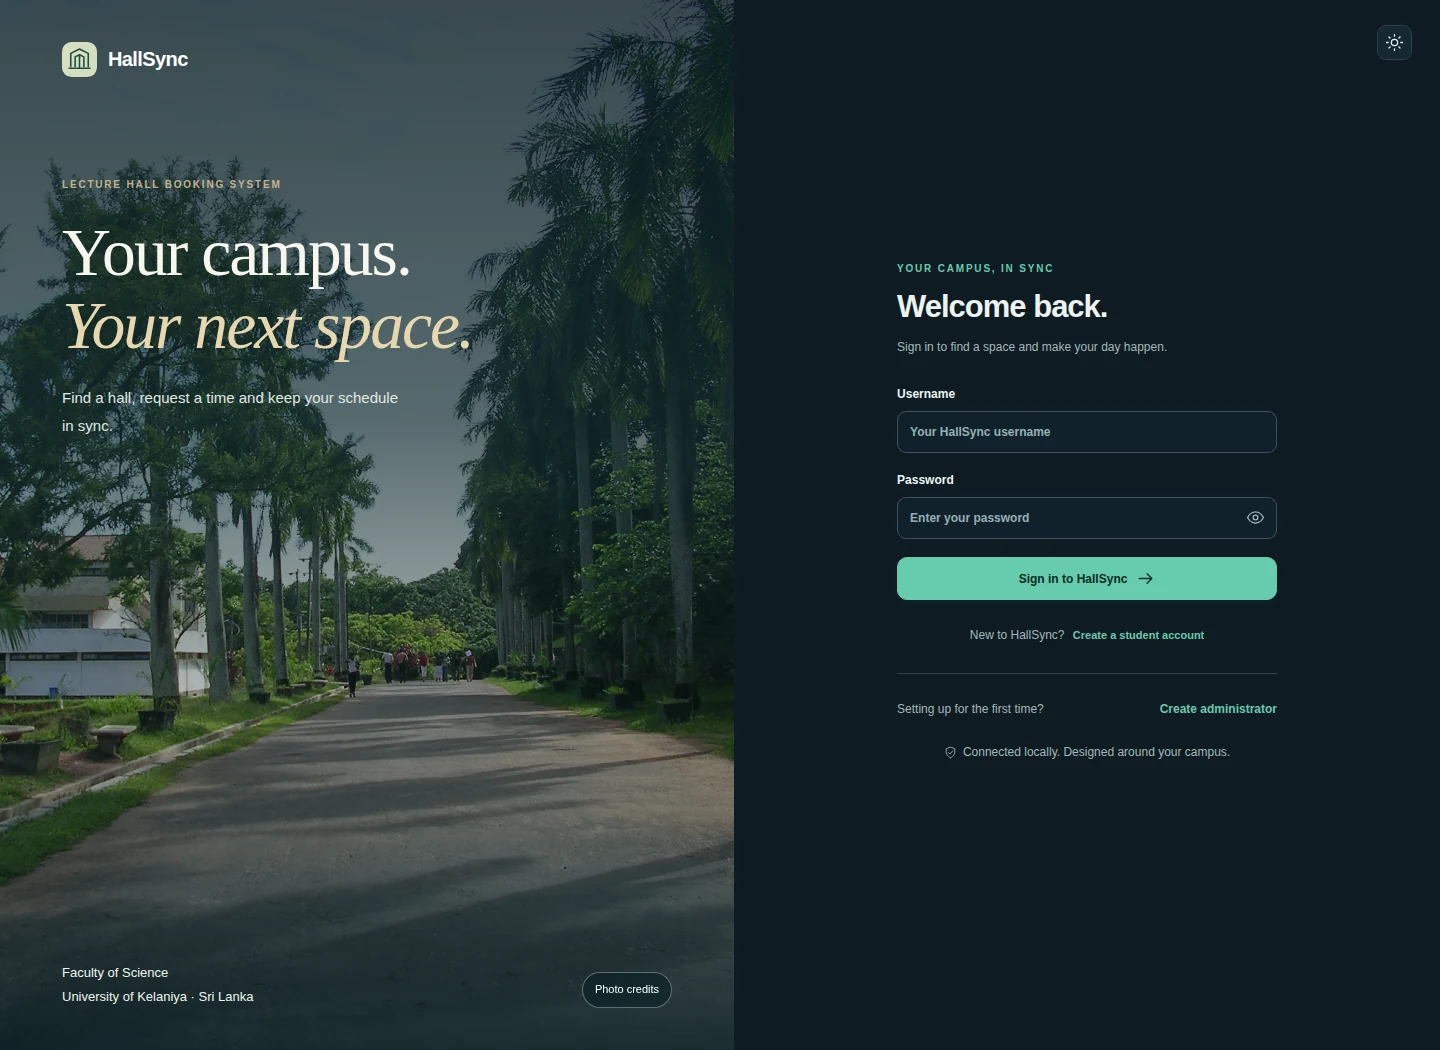
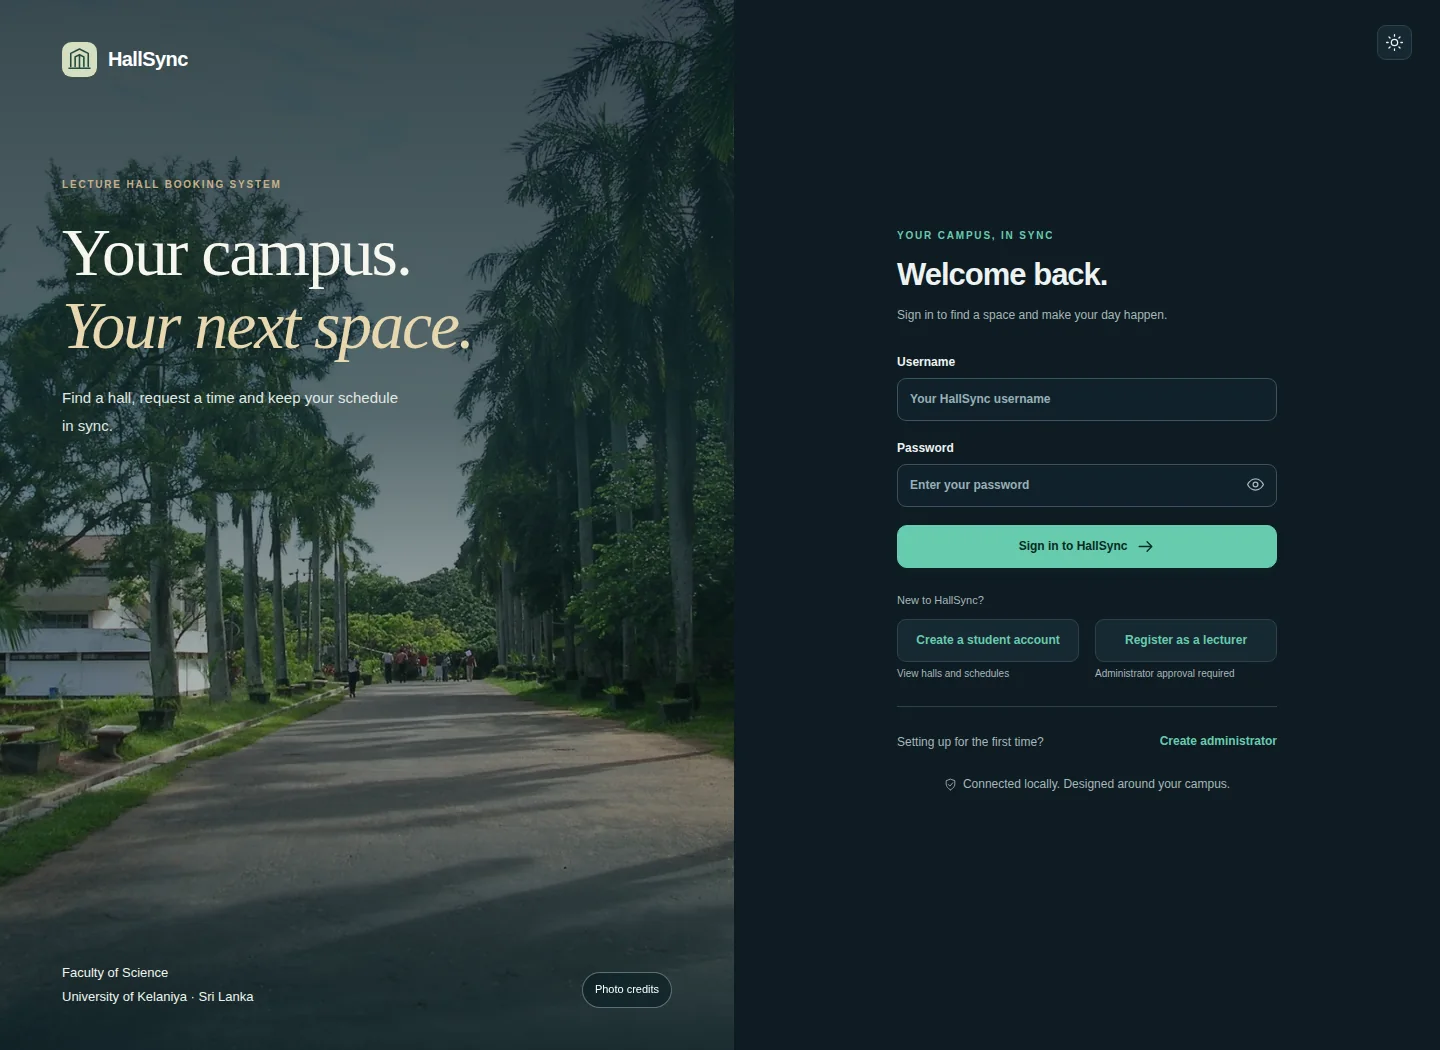
Refresh registration and lecturer approval interface previews

Changed region(s): [[0.625, 0.2133, 0.9062, 0.7619]]

diff --git a/README.md b/README.md
@@ -80,6 +80,8 @@ Lecturer applicants provide their name, email, username, department, staff ID an
 
 In **Lecturer approvals**, an administrator checks university staff records and confirms that the lecturer actually submitted this registration through an independent university channel. A matching name, staff ID or email alone does not establish identity. There is no automatic email verification or notification service in this version. The administrator explicitly confirms verification, then approves. Account activation and the decision commit in one transaction; competing reviews have only one winner.
 
+![Lecturer verification queue](.github/assets/hallsync-lecturer-approvals.webp)
+
 Rejection requires a reason and leaves the account inactive. The reviewer, decision time and note remain in history. Decisions are final in this version; rejected applicants should contact the administrator to resolve corrections. Public resubmission and password recovery are not implemented.
 
 Existing administrator-provisioned lecturers remain valid. An administrator may still provision an already-verified staff account directly through **People**. Administrator accounts require their own username and password; there is no password-free or universal administrator login.
